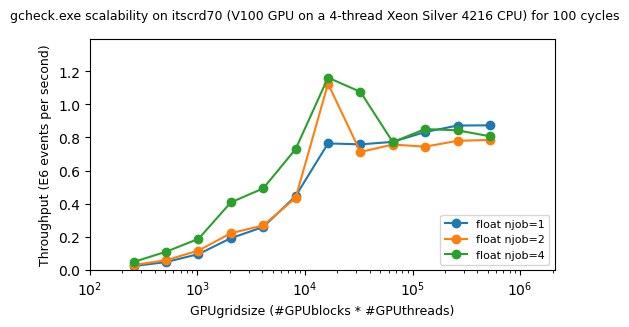
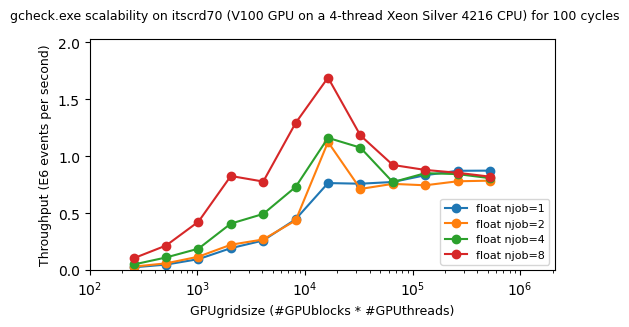
[bmk] include overcommit in the gpu scan plots, use sorted njobs

diff --git a/tools/benchmarking/bmkplots.py b/tools/benchmarking/bmkplots.py
@@ -148,11 +148,9 @@ def loadCudaRunSet( runsetdir, evtmatch='-e001', debug=False ):
             assert njob == run_info[njobkey], 'njob mismatch %i != %i'%( njob, run_info[njobkey] )
             assert nthr == run_info[nthrkey], 'nthr mismatch %i != %i'%( nthr, run_info[nthrkey] )
             assert nevt == run_info[nevtkey], 'nevt mismatch %i != %i'%( nevt, run_info[nevtkey] )
-            if abs(xht) < njob:
-                print( 'WARNING! %s contains overcommit data (njob=%d > nproc=%d) and will be skipped'%(rundir,njob,abs(xht)) )
-                continue
-            else:
-                print( njob, abs(xht) )
+            #if abs(xht) < njob:
+            #    print( 'WARNING! %s contains overcommit data (njob=%d > nproc=%d) and will be skipped'%(rundir,njob,abs(xht)) )
+            #    continue
             cudarunset_scores[ngbl,ngth,njob,nthr] = run_scores
     return cudarunset_scores
 
@@ -398,7 +396,7 @@ def axesCudaST( ax, cudarunset_scores, score_key, xlog=True, ylog=False, debug=F
     assert nthrs == {nthr}, 'assume ST CPU jobs with nthr==1'
     xmax = 0
     ymax = 0
-    for njob in njobs :
+    for njob in sorted(njobs) :
         # Prepare x-axis and y-axis lists
         xvals = []
         yvals = []
